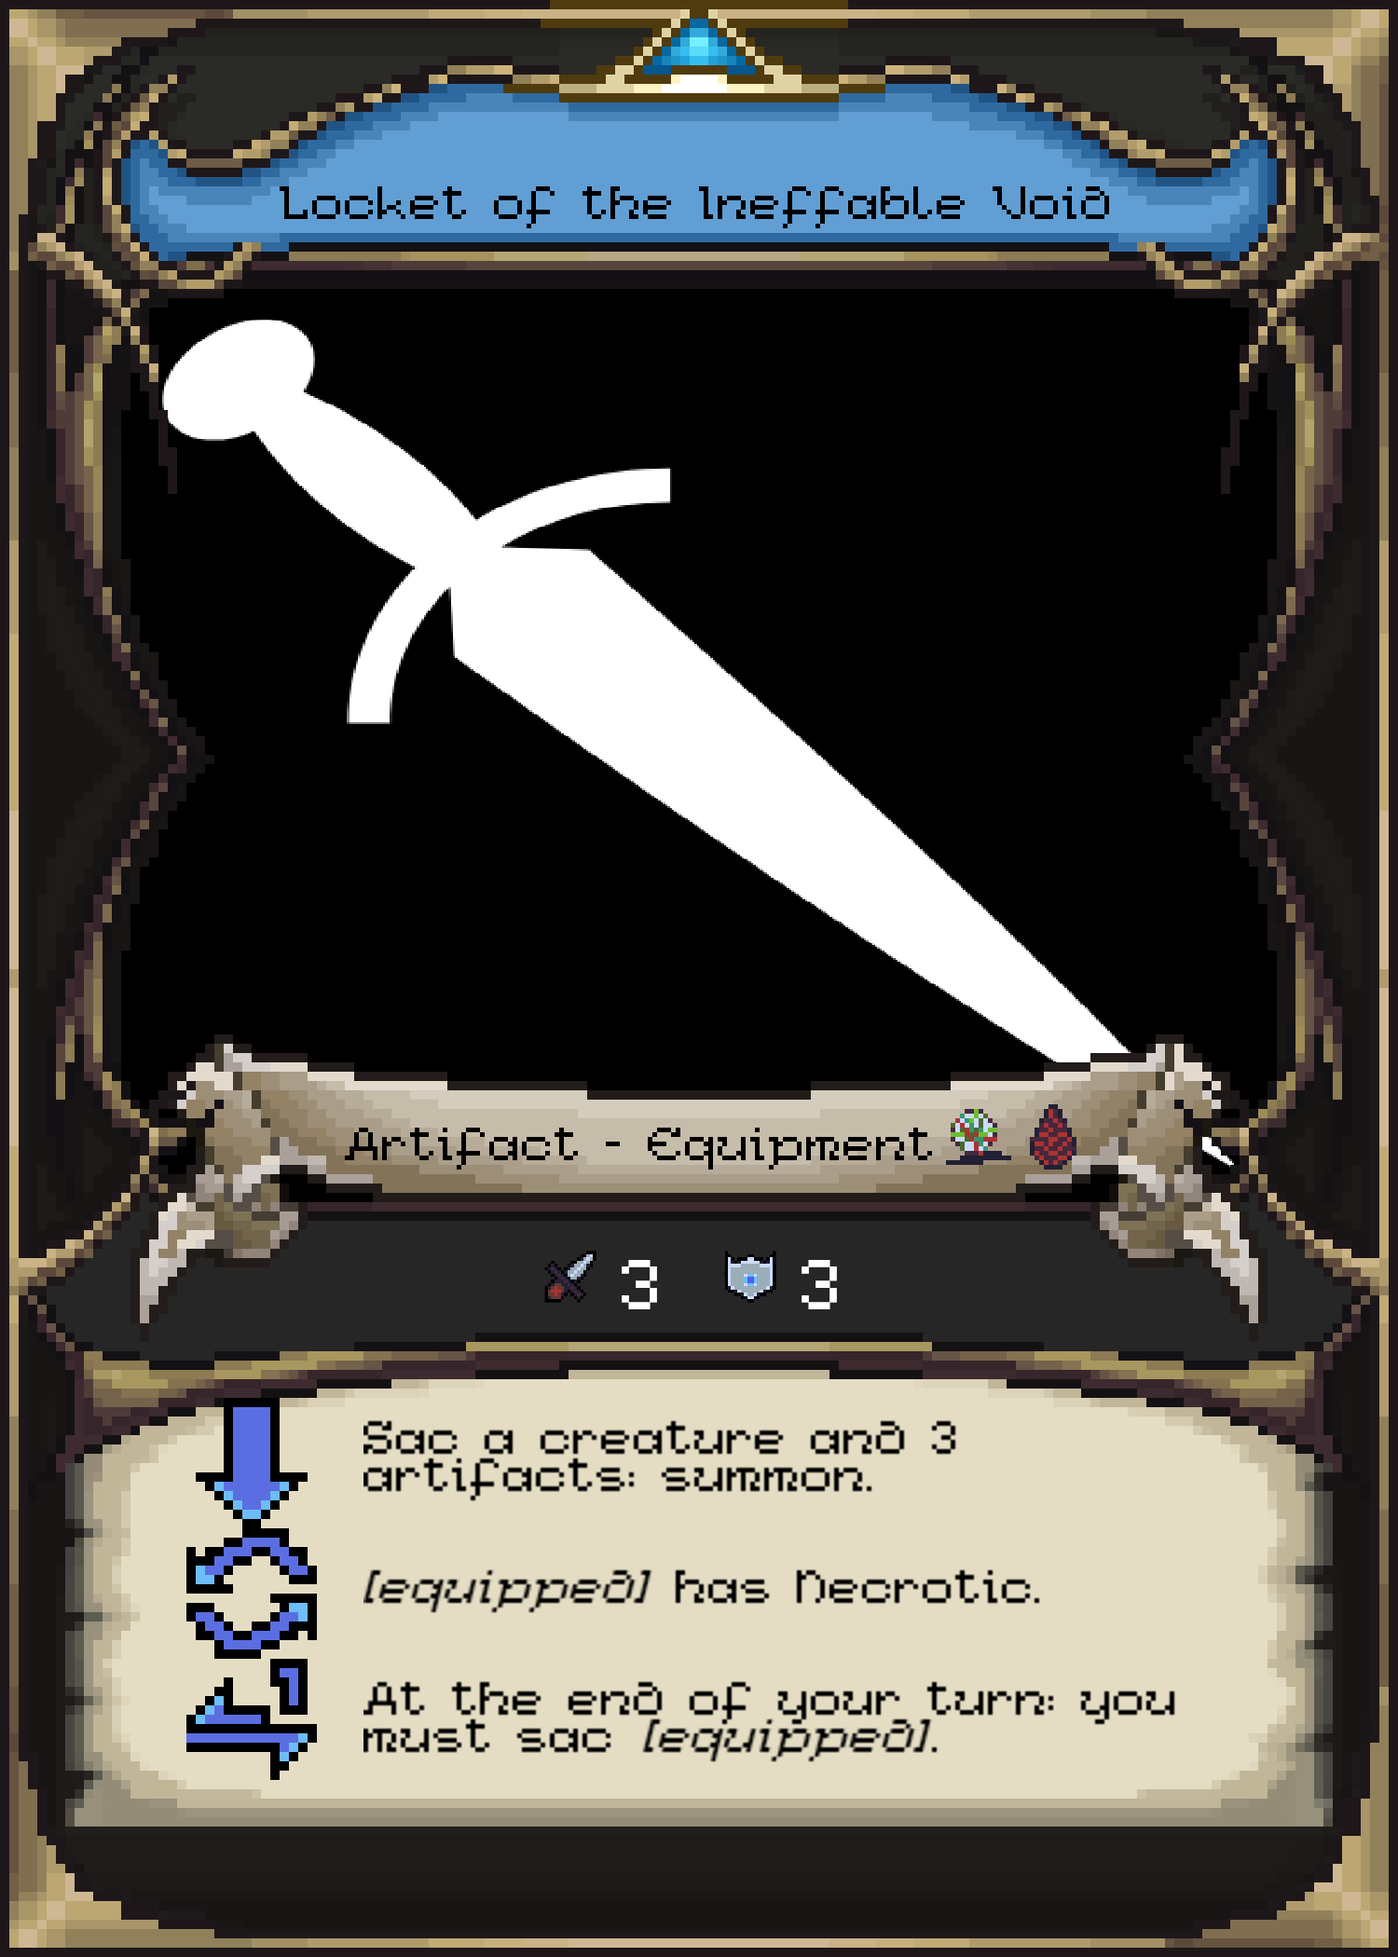
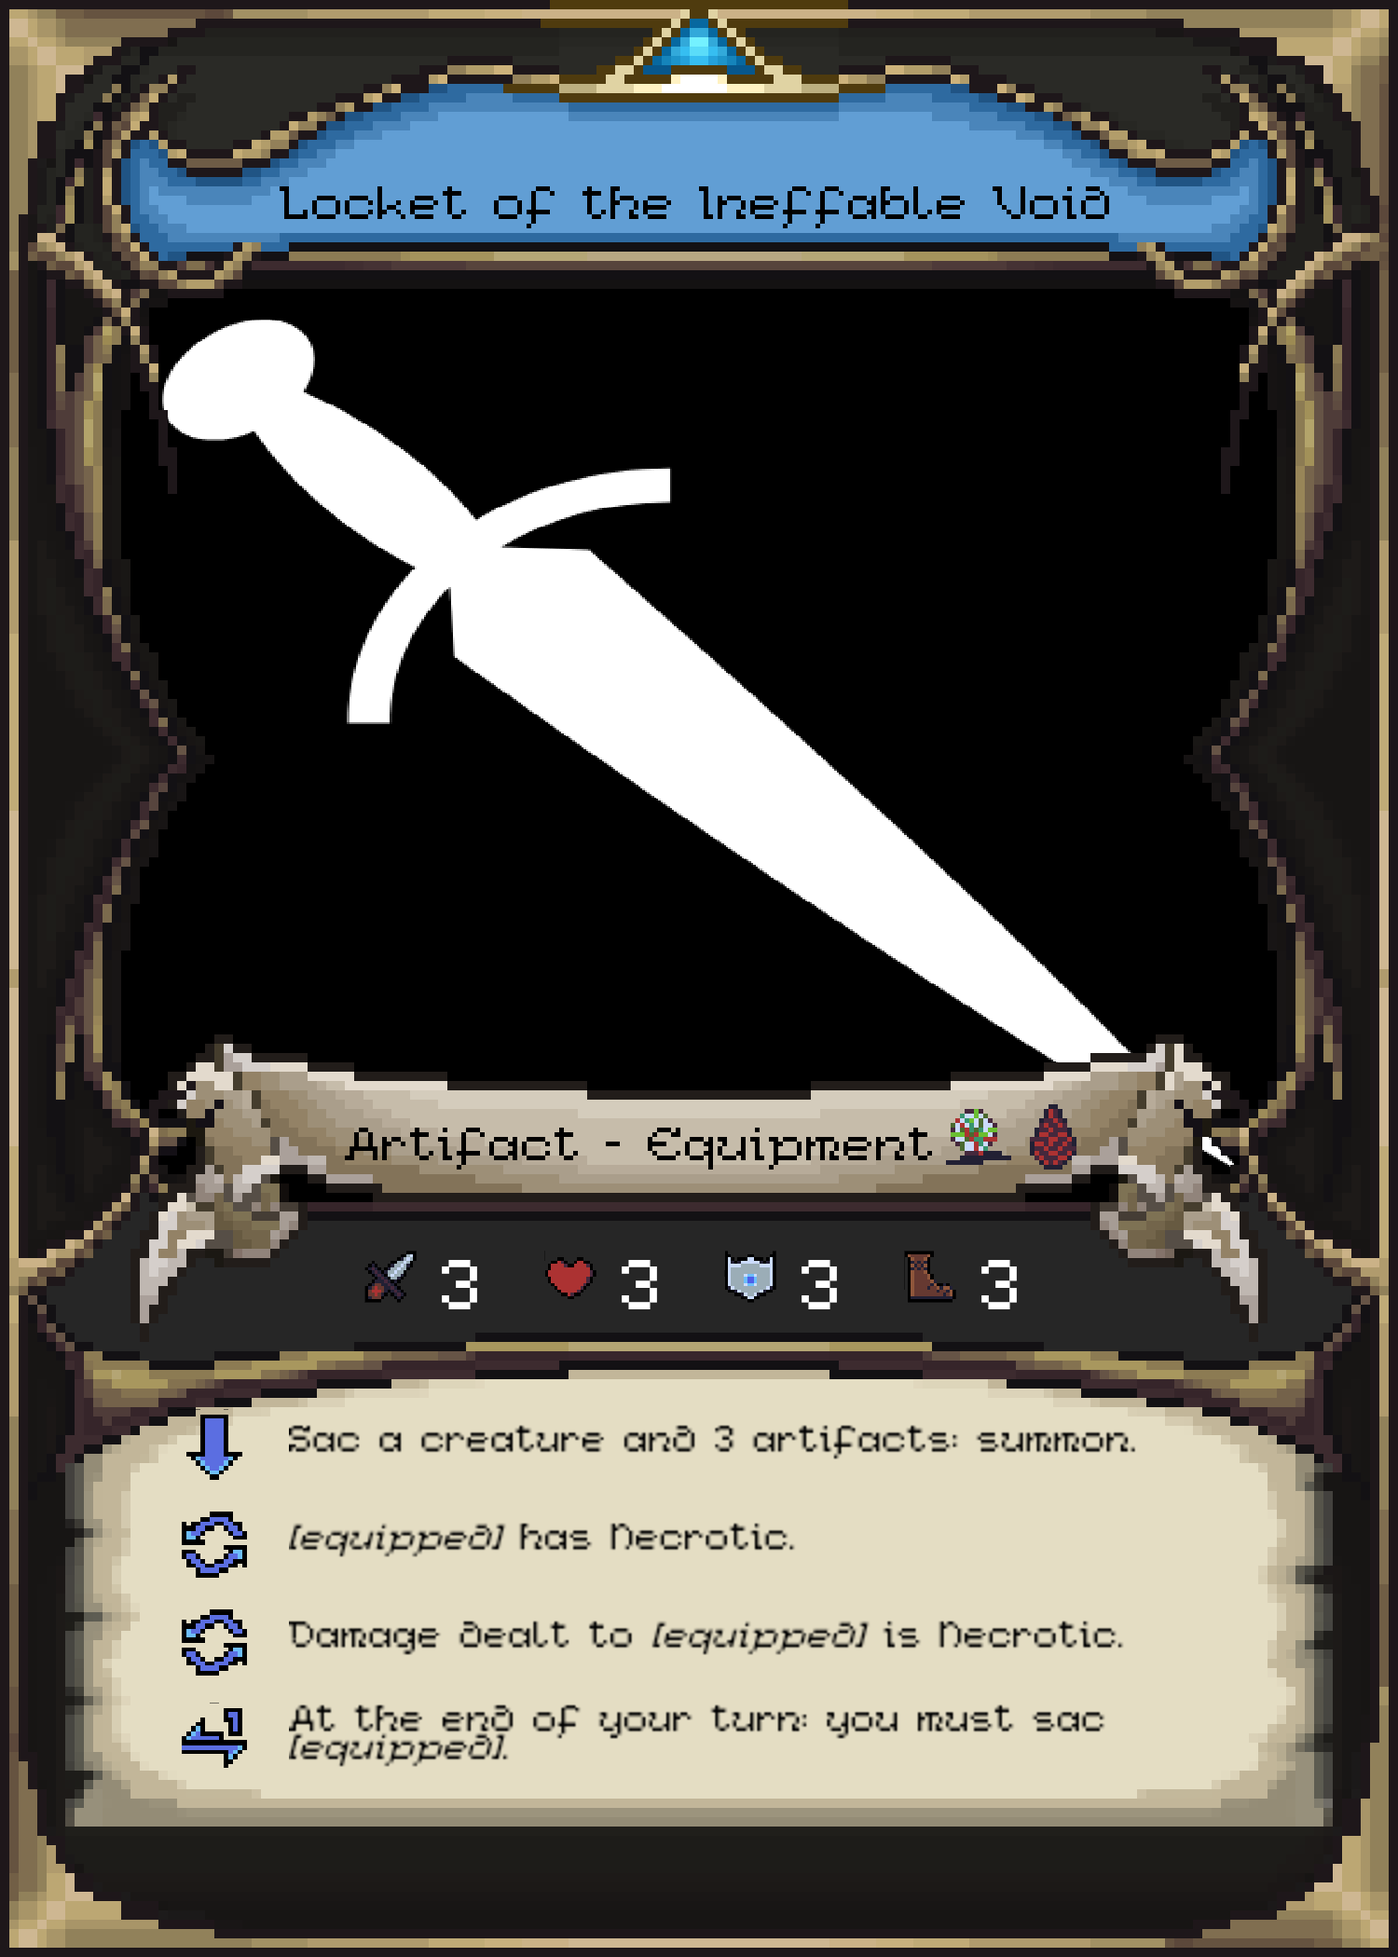
Deploy dim-rift

diff --git a/projects/dim-rift/content/card-index/skilled_operator/index.html b/projects/dim-rift/content/card-index/skilled_operator/index.html
@@ -92,7 +92,7 @@
     </div>
     <hr>
 
-    <h3>Related Keywords</h3><p><strong>Flip</strong>: When this card is targeted face-down for an effect/attack; immediately before that effect/attack resolves, right after flipping this fac-up: Activate the [Flip] effect. Note: Flip effects happen before any "When summoned" effects. If a creature is flipped back face-down during its Flip effect (e.g. via [Shadowwalker]), it is not considered to have been summoned.</p><p><strong>Poke</strong>: When summoned: flip target.</p><p><strong>Courier</strong>: When [this] would move from zone A to zone B; you can target one artifact you control from zone A and one empty destination artifact zone you control from zone B: after [this] moves, move the artifact as well.</p><p><strong>Operator</strong>: When [this] would perform an Attack or Move Action; select an Activation effect from target Artifact: resolve that effect instead. Ignore any costs or slow/OPT restrictions.</p><p><strong>Poke</strong>: When summoned: flip target.</p>
+    <h3>Related Keywords</h3><p><strong>Flip</strong>: When this card is targeted face-down for an effect/attack; immediately before that effect/attack resolves, right after flipping this fac-up: Activate the [Flip] effect. Note: Flip effects happen before any "When summoned" effects. If a creature is flipped back face-down during its Flip effect (e.g. via [Shadowwalker]), it is not considered to have been summoned.</p><p><strong>Poke</strong>: When summoned: flip target.</p><p><strong>Courier</strong>: When [this] would move from zone A to zone B; you can target one artifact you control from zone A and one empty destination artifact zone you control from zone B: after [this] moves, move the artifact as well.</p><p><strong>Operator</strong>: When [this] would perform an Attack or Move Action; select an Activation effect from target Artifact: resolve that effect instead. Ignore any costs or slow/OPT restrictions.</p>
 
 <hr>
     </main>

diff --git a/projects/dim-rift/content/card-index/shadowy_figure/index.html b/projects/dim-rift/content/card-index/shadowy_figure/index.html
@@ -87,7 +87,7 @@
     </div>
     <hr>
 
-    <h3>Related Keywords</h3><p><strong>Shadowwalker</strong>: Flip: You can choose another face-down creature you control; flip this back face-down and switch their positions. Note: do not trigger summoning or other Flip effects, nor does it generate mana for [this]. You cannot activate more than one Shadowwalker effect per chain.</p><p><strong>Flip</strong>: When this card is targeted face-down for an effect/attack; immediately before that effect/attack resolves, right after flipping this fac-up: Activate the [Flip] effect. Note: Flip effects happen before any "When summoned" effects. If a creature is flipped back face-down during its Flip effect (e.g. via [Shadowwalker]), it is not considered to have been summoned.</p><p><strong>Flip</strong>: When this card is targeted face-down for an effect/attack; immediately before that effect/attack resolves, right after flipping this fac-up: Activate the [Flip] effect. Note: Flip effects happen before any "When summoned" effects. If a creature is flipped back face-down during its Flip effect (e.g. via [Shadowwalker]), it is not considered to have been summoned.</p>
+    <h3>Related Keywords</h3><p><strong>Shadowwalker</strong>: Flip: You can choose another face-down creature you control; flip this back face-down and switch their positions. Note: do not trigger summoning or other Flip effects, nor does it generate mana for [this]. You cannot activate more than one Shadowwalker effect per chain.</p><p><strong>Flip</strong>: When this card is targeted face-down for an effect/attack; immediately before that effect/attack resolves, right after flipping this fac-up: Activate the [Flip] effect. Note: Flip effects happen before any "When summoned" effects. If a creature is flipped back face-down during its Flip effect (e.g. via [Shadowwalker]), it is not considered to have been summoned.</p>
 
 <hr>
     </main>

diff --git a/projects/dim-rift/content/card-index/veiled_necromancer/index.html b/projects/dim-rift/content/card-index/veiled_necromancer/index.html
@@ -96,7 +96,7 @@
     </div>
     <hr>
 
-    <h3>Related Keywords</h3><p><strong>Shadowwalker</strong>: Flip: You can choose another face-down creature you control; flip this back face-down and switch their positions. Note: do not trigger summoning or other Flip effects, nor does it generate mana for [this]. You cannot activate more than one Shadowwalker effect per chain.</p><p><strong>Necrotic</strong>: Necrotic damage does not get cleaned-up at the end of turn.</p><p><strong>Flip</strong>: When this card is targeted face-down for an effect/attack; immediately before that effect/attack resolves, right after flipping this fac-up: Activate the [Flip] effect. Note: Flip effects happen before any "When summoned" effects. If a creature is flipped back face-down during its Flip effect (e.g. via [Shadowwalker]), it is not considered to have been summoned.</p><p><strong>Necrotic</strong>: Necrotic damage does not get cleaned-up at the end of turn.</p>
+    <h3>Related Keywords</h3><p><strong>Shadowwalker</strong>: Flip: You can choose another face-down creature you control; flip this back face-down and switch their positions. Note: do not trigger summoning or other Flip effects, nor does it generate mana for [this]. You cannot activate more than one Shadowwalker effect per chain.</p><p><strong>Necrotic</strong>: Necrotic damage does not get cleaned-up at the end of turn.</p><p><strong>Flip</strong>: When this card is targeted face-down for an effect/attack; immediately before that effect/attack resolves, right after flipping this fac-up: Activate the [Flip] effect. Note: Flip effects happen before any "When summoned" effects. If a creature is flipped back face-down during its Flip effect (e.g. via [Shadowwalker]), it is not considered to have been summoned.</p>
 
 <hr>
     </main>

diff --git a/projects/dim-rift/content/card-index/enlightened_builder/index.html b/projects/dim-rift/content/card-index/enlightened_builder/index.html
@@ -92,7 +92,7 @@
     </div>
     <hr>
 
-    <h3>Related Keywords</h3><p><strong>Courier</strong>: When [this] would move from zone A to zone B; you can target one artifact you control from zone A and one empty destination artifact zone you control from zone B: after [this] moves, move the artifact as well.</p><p><strong>Operator</strong>: When [this] would perform an Attack or Move Action; select an Activation effect from target Artifact: resolve that effect instead. Ignore any costs or slow/OPT restrictions.</p><p><strong>Resilient</strong>: When [this] would receive lethal damage: [this] only takes up to its (Life - 1) instead.</p><p><strong>Resilient</strong>: When [this] would receive lethal damage: [this] only takes up to its (Life - 1) instead.</p>
+    <h3>Related Keywords</h3><p><strong>Courier</strong>: When [this] would move from zone A to zone B; you can target one artifact you control from zone A and one empty destination artifact zone you control from zone B: after [this] moves, move the artifact as well.</p><p><strong>Operator</strong>: When [this] would perform an Attack or Move Action; select an Activation effect from target Artifact: resolve that effect instead. Ignore any costs or slow/OPT restrictions.</p><p><strong>Resilient</strong>: When [this] would receive lethal damage: [this] only takes up to its (Life - 1) instead.</p>
 
 <hr>
     </main>

diff --git a/projects/dim-rift/content/card-index/deep_forest_temple/index.html b/projects/dim-rift/content/card-index/deep_forest_temple/index.html
@@ -80,7 +80,7 @@
     </div>
     <hr>
 
-    <h3>Related Keywords</h3><p><strong>Transformed</strong>: Can only be summoned using a [Transform] effect.</p><p><strong>Prone</strong>: Prone creatures cannot move or rotate during their next Move Action (they must instead spend it to get up). They can still be moved or rotated by effects.</p><p><strong>Prone</strong>: Prone creatures cannot move or rotate during their next Move Action (they must instead spend it to get up). They can still be moved or rotated by effects.</p><p><strong>Transform</strong>: When the transform condition is met, you must immediately sac [this] and you can summon from your XD a [Transformed] creature.</p><p><strong>Prone</strong>: Prone creatures cannot move or rotate during their next Move Action (they must instead spend it to get up). They can still be moved or rotated by effects.</p>
+    <h3>Related Keywords</h3><p><strong>Transformed</strong>: Can only be summoned using a [Transform] effect.</p><p><strong>Prone</strong>: Prone creatures cannot move or rotate during their next Move Action (they must instead spend it to get up). They can still be moved or rotated by effects.</p><p><strong>Transform</strong>: When the transform condition is met, you must immediately sac [this] and you can summon from your XD a [Transformed] creature.</p>
 
 <hr>
     </main>

diff --git a/projects/dim-rift/content/card-index/suspicious_mountaineer/index.html b/projects/dim-rift/content/card-index/suspicious_mountaineer/index.html
@@ -85,7 +85,7 @@
     </div>
     <hr>
 
-    <h3>Related Keywords</h3><p><strong>Shadowwalker</strong>: Flip: You can choose another face-down creature you control; flip this back face-down and switch their positions. Note: do not trigger summoning or other Flip effects, nor does it generate mana for [this]. You cannot activate more than one Shadowwalker effect per chain.</p><p><strong>Explorer</strong>: This card can move to non-activated zones you control. Note: they do not become active for any other purposes!</p><p><strong>Shadowwalker</strong>: Flip: You can choose another face-down creature you control; flip this back face-down and switch their positions. Note: do not trigger summoning or other Flip effects, nor does it generate mana for [this]. You cannot activate more than one Shadowwalker effect per chain.</p>
+    <h3>Related Keywords</h3><p><strong>Shadowwalker</strong>: Flip: You can choose another face-down creature you control; flip this back face-down and switch their positions. Note: do not trigger summoning or other Flip effects, nor does it generate mana for [this]. You cannot activate more than one Shadowwalker effect per chain.</p><p><strong>Explorer</strong>: This card can move to non-activated zones you control. Note: they do not become active for any other purposes!</p>
 
 <hr>
     </main>

diff --git a/projects/dim-rift/content/card-index/locket_of_the_ineffable_void/index.html b/projects/dim-rift/content/card-index/locket_of_the_ineffable_void/index.html
@@ -44,11 +44,19 @@
                 </span>
             
             
+                <span class="stat-block" title="3 Life">
+                    3 <img src="/projects/dim-rift/assets/icons/life.png">
+                </span>
+            
             
                 <span class="stat-block" title="3 Armor">
                     3 <img src="/projects/dim-rift/assets/icons/armor.png">
                 </span>
             
+            
+                <span class="stat-block" title="3 Movement">
+                    3 <img src="/projects/dim-rift/assets/icons/movement.png">
+                </span>
             
             
         </p>
@@ -70,6 +78,13 @@
             <strong>Continuous</strong>
             <br>
             [equipped] has Necrotic.
+        </div>
+    </div><div class="image-with-text">
+        <img src="/projects/dim-rift/assets/icons/e-continuous.png" class="game-icon" alt="Continuous" title="Continuous">
+        <div>
+            <strong>Continuous</strong>
+            <br>
+            Damage dealt to [equipped] is Necrotic.
         </div>
     </div><div class="image-with-text">
         <img src="/projects/dim-rift/assets/icons/e-opt-trigger.png" class="game-icon" alt="Mandatory Once-per-turn Trigger" title="Mandatory Once-per-turn Trigger">

diff --git a/projects/dim-rift/content/card-index/dexterous_acrobat/index.html b/projects/dim-rift/content/card-index/dexterous_acrobat/index.html
@@ -85,7 +85,7 @@
     </div>
     <hr>
 
-    <h3>Related Keywords</h3><p><strong>Conduit</strong>: A card connected to [this] can use this card's arrows for their targeting.</p><p><strong>Flip</strong>: When this card is targeted face-down for an effect/attack; immediately before that effect/attack resolves, right after flipping this fac-up: Activate the [Flip] effect. Note: Flip effects happen before any "When summoned" effects. If a creature is flipped back face-down during its Flip effect (e.g. via [Shadowwalker]), it is not considered to have been summoned.</p><p><strong>Conduit</strong>: A card connected to [this] can use this card's arrows for their targeting.</p>
+    <h3>Related Keywords</h3><p><strong>Conduit</strong>: A card connected to [this] can use this card's arrows for their targeting.</p><p><strong>Flip</strong>: When this card is targeted face-down for an effect/attack; immediately before that effect/attack resolves, right after flipping this fac-up: Activate the [Flip] effect. Note: Flip effects happen before any "When summoned" effects. If a creature is flipped back face-down during its Flip effect (e.g. via [Shadowwalker]), it is not considered to have been summoned.</p>
 
 <hr>
     </main>

diff --git a/projects/dim-rift/content/card-index/morbid_rites/index.html b/projects/dim-rift/content/card-index/morbid_rites/index.html
@@ -63,7 +63,7 @@
     </div>
     <hr>
 
-    <h3>Related Keywords</h3><p><strong>Sealed</strong>: [this] cannot declare Attack or Move Actions. [this] has [Sealed Sacrifice]. If [this] is destroyed by your opponent: they pay 2 life.</p><p><strong>Sealed</strong>: [this] cannot declare Attack or Move Actions. [this] has [Sealed Sacrifice]. If [this] is destroyed by your opponent: they pay 2 life.</p><p><strong>Sacrificial Coin</strong>: A Sacrificial Coin can be spent instead of a generic creature sacrifice to pay for any cost, at any time. It is just a coin you posses, it does not live on the battlefield, and it is not a card.</p>
+    <h3>Related Keywords</h3><p><strong>Sealed</strong>: [this] cannot declare Attack or Move Actions. [this] has [Sealed Sacrifice]. If [this] is destroyed by your opponent: they pay 2 life.</p><p><strong>Sacrificial Coin</strong>: A Sacrificial Coin can be spent instead of a generic creature sacrifice to pay for any cost, at any time. It is just a coin you posses, it does not live on the battlefield, and it is not a card.</p>
 
 <hr>
     </main>

diff --git a/projects/dim-rift/content/card-index/paladin_of_hope/index.html b/projects/dim-rift/content/card-index/paladin_of_hope/index.html
@@ -103,7 +103,7 @@
     </div>
     <hr>
 
-    <h3>Related Keywords</h3><p><strong>Pray</strong>: When [this] would perform an Attack or Move Action: resolve the following effect instead: "[this] gains 2 mana".</p><p><strong>Vigilant</strong>: After [this] takes a Move Action: [this] can immediately perform an Attack Action.</p><p><strong>Blessed</strong>: The Blessed effect is active iff a creature you control with at least 1 mana is connected to [this].</p><p><strong>Blessed</strong>: The Blessed effect is active iff a creature you control with at least 1 mana is connected to [this].</p>
+    <h3>Related Keywords</h3><p><strong>Pray</strong>: When [this] would perform an Attack or Move Action: resolve the following effect instead: "[this] gains 2 mana".</p><p><strong>Vigilant</strong>: After [this] takes a Move Action: [this] can immediately perform an Attack Action.</p><p><strong>Blessed</strong>: The Blessed effect is active iff a creature you control with at least 1 mana is connected to [this].</p>
 
 <hr>
     </main>

diff --git a/projects/dim-rift/content/card-index/high_priestess_of_altaria/index.html b/projects/dim-rift/content/card-index/high_priestess_of_altaria/index.html
@@ -110,7 +110,7 @@
     </div>
     <hr>
 
-    <h3>Related Keywords</h3><p><strong>Conduit</strong>: A card connected to [this] can use this card's arrows for their targeting.</p><p><strong>Resilient</strong>: When [this] would receive lethal damage: [this] only takes up to its (Life - 1) instead.</p><p><strong>Blessed</strong>: The Blessed effect is active iff a creature you control with at least 1 mana is connected to [this].</p><p><strong>Blessed</strong>: The Blessed effect is active iff a creature you control with at least 1 mana is connected to [this].</p>
+    <h3>Related Keywords</h3><p><strong>Conduit</strong>: A card connected to [this] can use this card's arrows for their targeting.</p><p><strong>Resilient</strong>: When [this] would receive lethal damage: [this] only takes up to its (Life - 1) instead.</p><p><strong>Blessed</strong>: The Blessed effect is active iff a creature you control with at least 1 mana is connected to [this].</p>
 
 <hr>
     </main>

diff --git a/projects/dim-rift/content/card-index/call_of_the_wild/index.html b/projects/dim-rift/content/card-index/call_of_the_wild/index.html
@@ -63,7 +63,7 @@
     </div>
     <hr>
 
-    <h3>Related Keywords</h3><p><strong>Transform</strong>: When the transform condition is met, you must immediately sac [this] and you can summon from your XD a [Transformed] creature.</p><p><strong>Transform</strong>: When the transform condition is met, you must immediately sac [this] and you can summon from your XD a [Transformed] creature.</p><p><strong>Transformed</strong>: Can only be summoned using a [Transform] effect.</p>
+    <h3>Related Keywords</h3><p><strong>Transform</strong>: When the transform condition is met, you must immediately sac [this] and you can summon from your XD a [Transformed] creature.</p><p><strong>Transformed</strong>: Can only be summoned using a [Transform] effect.</p>
 
 <hr>
     </main>
